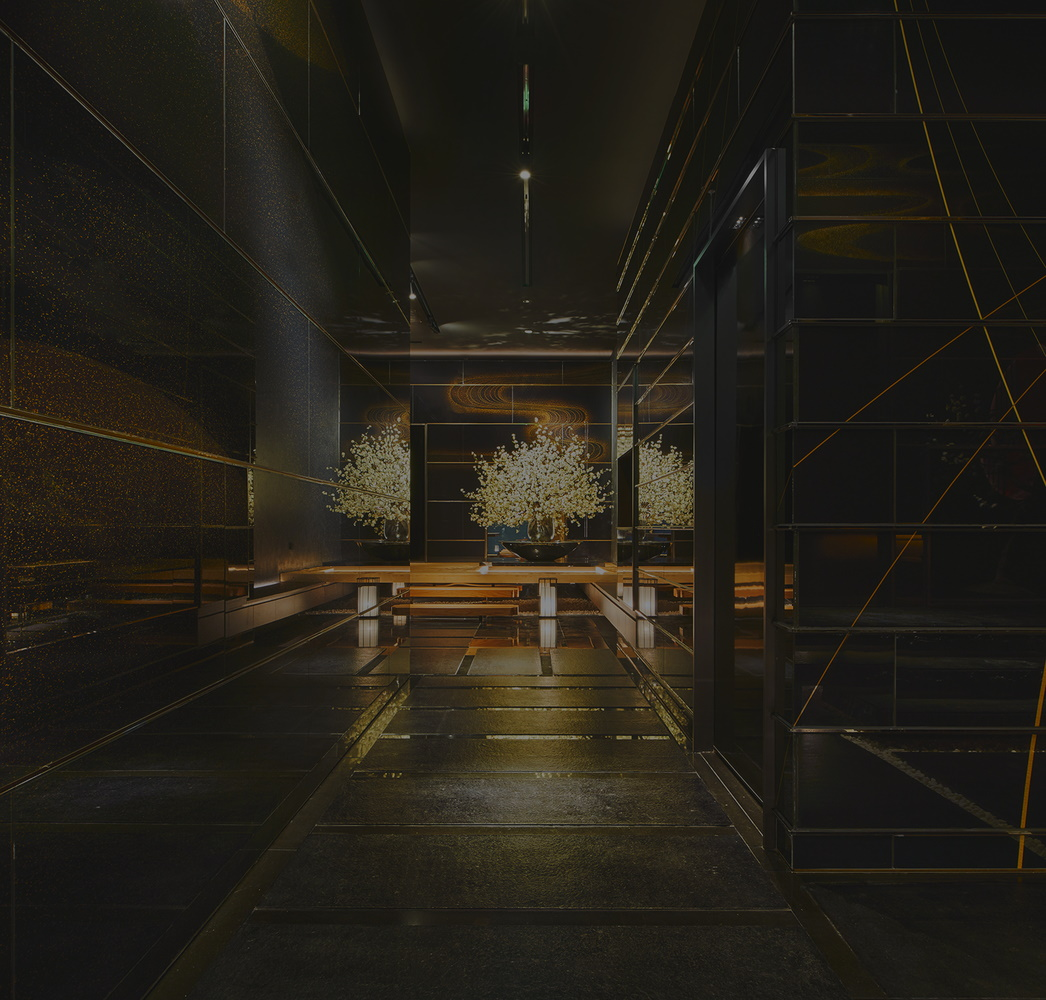
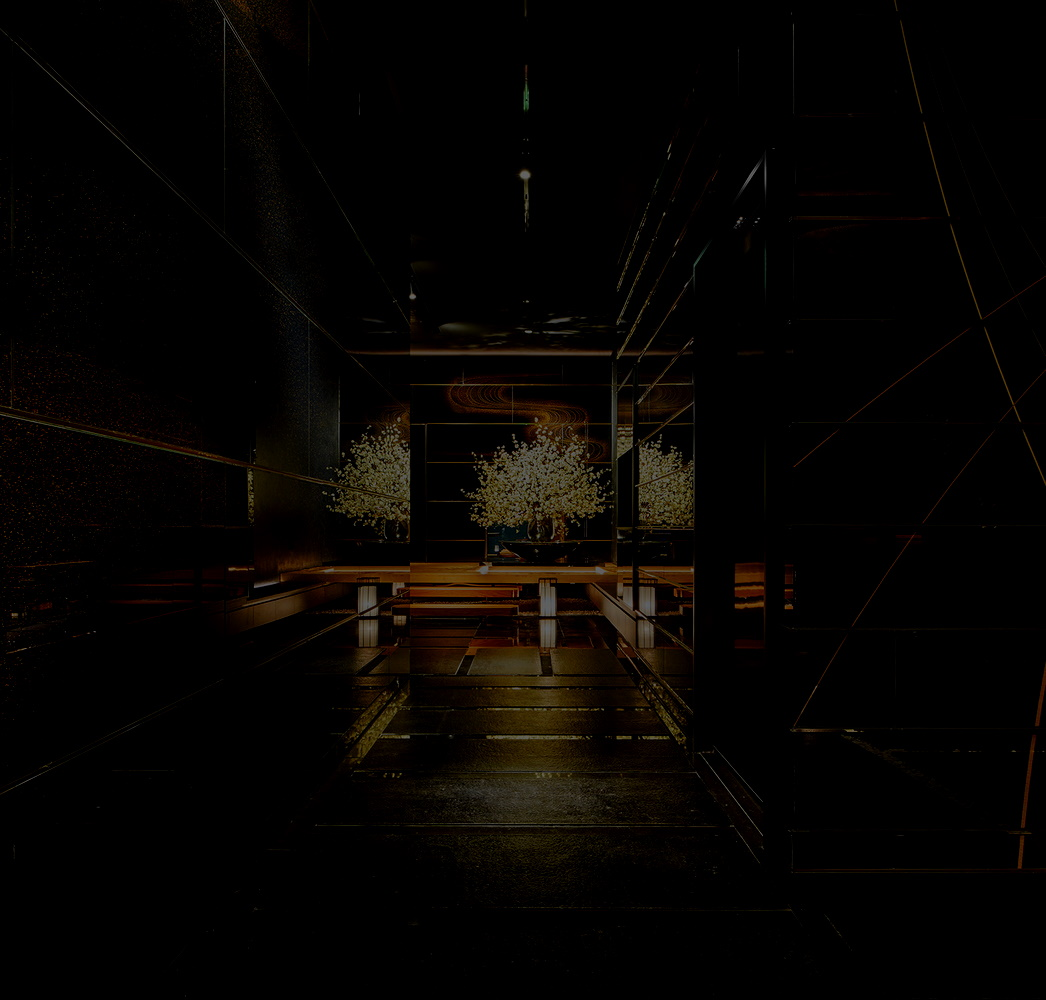
fix alignments, darken bg

diff --git a/contact.html b/contact.html
@@ -33,11 +33,11 @@
 
     <div class="reservation-main-body">
       <div id="reservation-title" class="section-title">Reservations</div>
-      <div class="reservation-box">
+      <form class="reservation-box">
         <div class="contact-info">
           <div class="name">
             <img
-              src="/design_docs/images/NameIcon.png"
+              src="./design_docs/images/NameIcon.png"
               alt="name-icon"
               class="name-icon"
             />
@@ -50,7 +50,7 @@
         <div class="contact-info">
           <div class="email">
             <img
-              src="/design_docs/images/EmailIcon.png"
+              src="./design_docs/images/EmailIcon.png"
               alt="name-icon"
               class="name-icon"
             />
@@ -63,7 +63,7 @@
         <div class="contact-info">
           <div class="phone">
             <img
-              src="/design_docs/images/PhoneIcon.png"
+              src="./design_docs/images/PhoneIcon.png"
               alt="name-icon"
               class="name-icon"
             />
@@ -76,7 +76,7 @@
         <div class="contact-info">
           <div class="no-of-pax">
             <img
-              src="/design_docs/images/NoofpaxIcon.png"
+              src="./design_docs/images/NoofpaxIcon.png"
               alt="name-icon"
               class="name-icon"
             />
@@ -146,7 +146,7 @@
         <div class="reserve-now">
           <button class="reserve-now-button">Reserve Now!</button>
         </div>
-      </div>
+      </form>
     </div>
 
     <div id="footer" class="">

diff --git a/assets/styles/style.css b/assets/styles/style.css
@@ -450,7 +450,7 @@ a {
     padding-bottom: 1%;
     padding-top: 10%;
     min-height: 400px;
-    background: #fff url(./../img/index/hero.jpeg) center/cover no-repeat;
+    background: url(./../img/index/hero.jpeg) center/cover no-repeat;
     color:#fff;
 }
 
@@ -500,6 +500,13 @@ a {
 .background-1 {
     padding-bottom: 50px;
     background: #fff url(./../img/index/background-1.jpg) center/cover no-repeat;
+    color:#fff;
+}
+
+.background-1 {
+    padding-bottom: 50px;
+    background-image: url(./../img/index/background-1.jpg);
+    background-size: cover no-repeat;
     color:#fff;
 }
 
